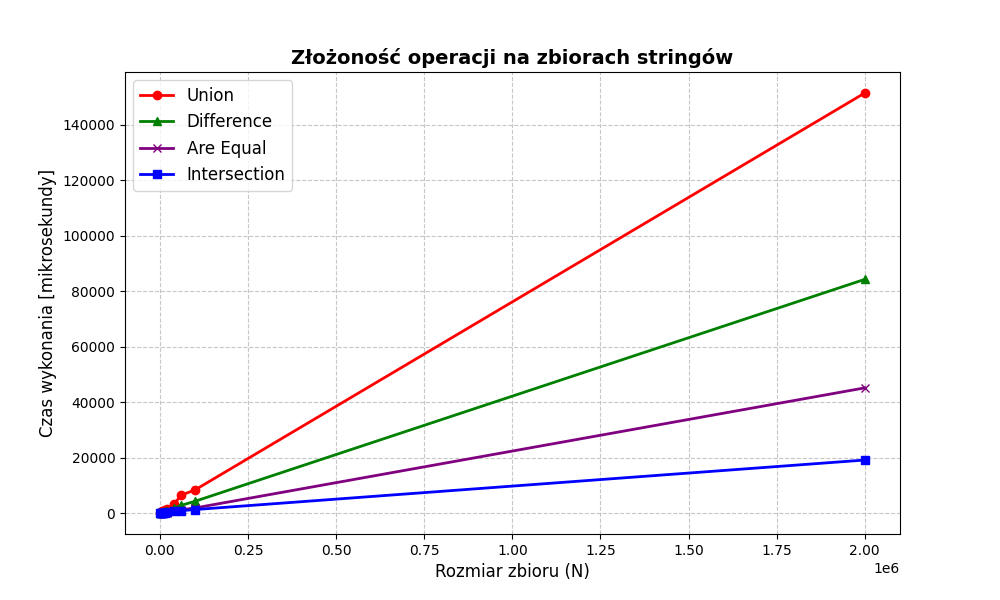
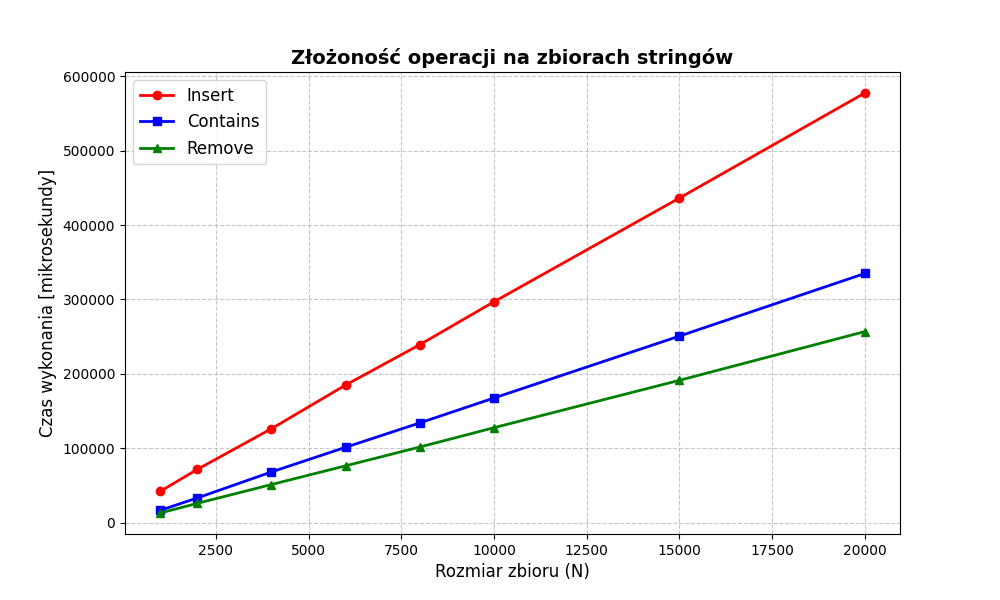
Done

diff --git a/Zestaw1/setStrings.cpp b/Zestaw1/setStrings.cpp
@@ -47,9 +47,9 @@ public:
 };
 
 void run_benchmark() {
-    std::cout << "N,Insert_us,Contains_us,Remove_us\n";
+    std::cout << "N,Insert,Contains,Remove\n";
 
-    std::vector<int> sizes = {1000, 2000, 4000, 6000, 8000, 10000, 15000, 20000, 40000, 60000, 100000};
+    std::vector<int> sizes = {1000, 2000, 4000, 6000, 8000, 10000, 15000, 20000};
     const int k = 50; // Długość stringa
     const int BATCH = 1000;
 
@@ -108,4 +108,6 @@ int main() {
     // mySet.remove("DEF");
     // std::cout << "Po usunieciu 'DEF': ";
     // mySet.print();
+    
+    run_benchmark();
 }
